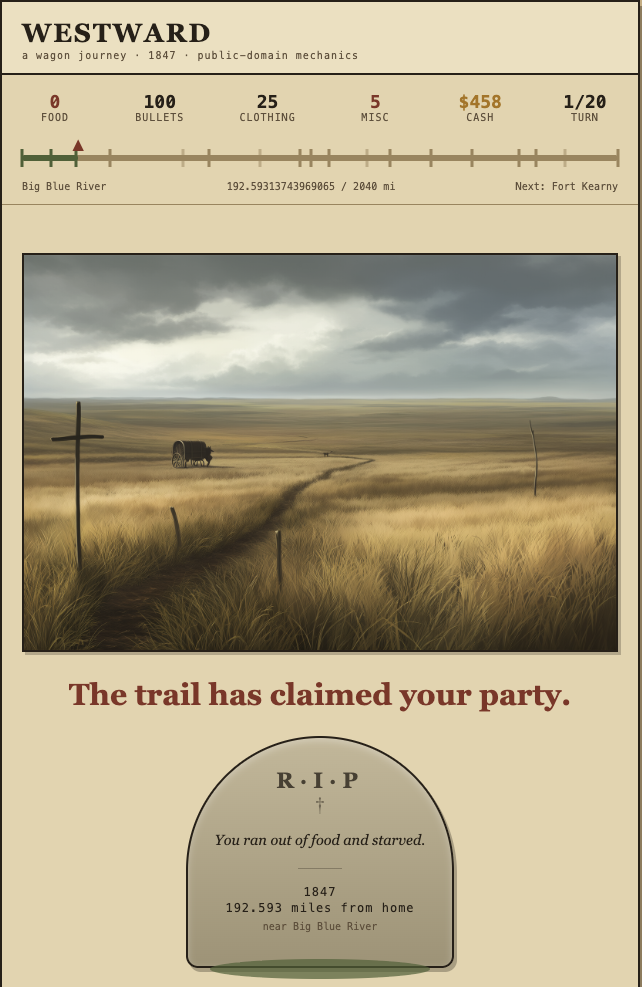
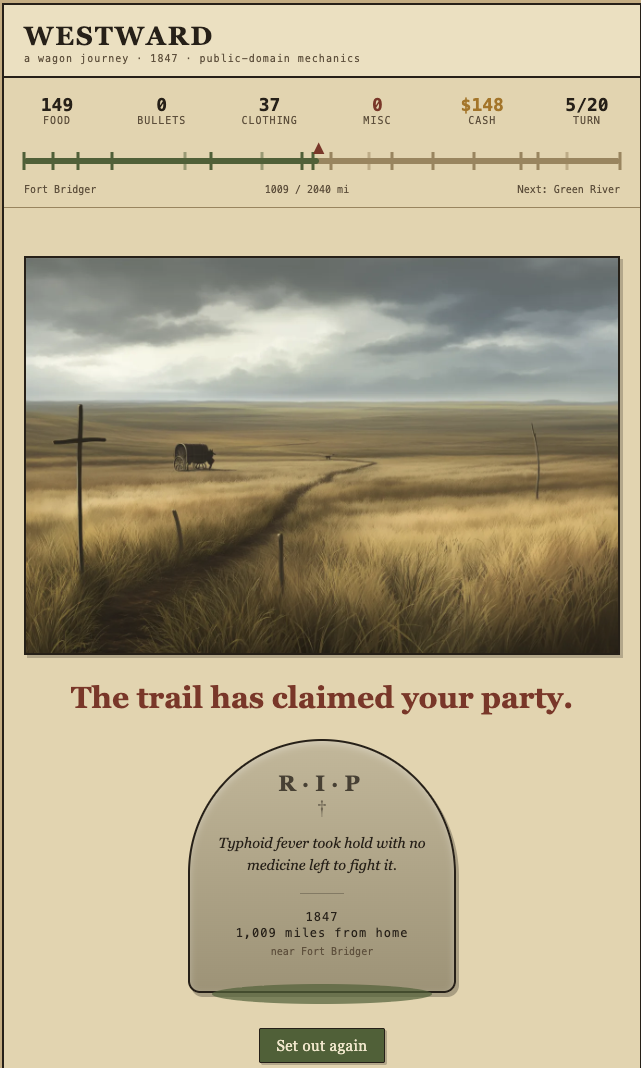
Replace the tombstone screenshot with a post-fix capture
The previous one was taken against the old build and showed the float bug
on both lines (192.59313743969065 in the trail bar, 192.593 on the stone).

The new capture is verified clean in a production build: 1009 / 2040 mi in
the trail bar, and "1,009 miles from home" carved on the stone -- the
thousands separator is toLocaleString() doing its intended job now that it
receives an integer.

It is also a better shot for the store page. Death by typhoid at Fort
Bridger on turn 5, half the trail behind them and the medicine chest empty,
reads as a journey that went wrong rather than the previous turn-1
starvation with $458 unspent. The named affliction epitaph is the most
distinctive writing in the game and now appears in the screenshots.

Clears the retake warning and its checklist item from docs/ITCH.md.

diff --git a/docs/ITCH.md b/docs/ITCH.md
@@ -148,27 +148,11 @@ All in [`press/`](../press), ready to upload.
 | `02-river-crossing.png` | 650×939 | The Big Blue River decision — shows the branching. |
 | `03-chimney-rock.png` | 648×942 | Trail view with landmark bar, rations, and the event log. |
 | `04-arrival.png` | 641×937 | The win screen at Oregon City. |
-| `05-tombstone.png` | 642×987 | The carved epitaph death screen. ⚠ **Needs retaking — see below.** |
+| `05-tombstone.png` | 641×1068 | Death by typhoid at Fort Bridger, 1,009 miles in — the carved epitaph. |
 
 Suggested screenshot order on the page: **02 → 05 → 03 → 01 → 04**. Lead with a
 decision, follow it immediately with the consequence, then the texture, then the
 shop, and let the arrival land last.
-
-### ⚠ `05-tombstone.png` must be retaken
-
-It was captured before the mileage fix, so it shows the bug: `192.59313743969065 / 2040 mi`
-in the trail bar, and `192.593 miles from home` carved on the stone. Both render as clean
-integers now. Retake it against a current build before uploading.
-
-Two things worth getting on the retake:
-
-- **Die further along.** The current shot is turn 1/20 with $458 unspent, which reads as
-  "bought nothing, starved immediately" rather than as a journey that went wrong. A death
-  around turn 8–12 sells the game better.
-- **Die of something named.** "You ran out of food and starved" is the generic ending.
-  The affliction epitaphs — *"Dysentery wore them down, and the medicine chest was bare"* —
-  are the most distinctive writing in the game. Outfit with low `misc` (medicine) and eat
-  poorly to draw one.
 
 ## Release checklist
 
@@ -179,7 +163,6 @@ Two things worth getting on the retake:
 - [ ] Set viewport 800×900, enable fullscreen + mobile friendly
 - [ ] Set background color `#cdb58a`
 - [ ] **Answer the AI disclosure prompt** (see above — this is required)
-- [ ] **Retake `05-tombstone.png`** against the fixed build (see above)
 - [ ] Upload cover image + screenshots from `press/`
 - [ ] Paste tagline, description, tags, metadata
 - [ ] Save as **draft** and play the embedded build start to finish before going public
